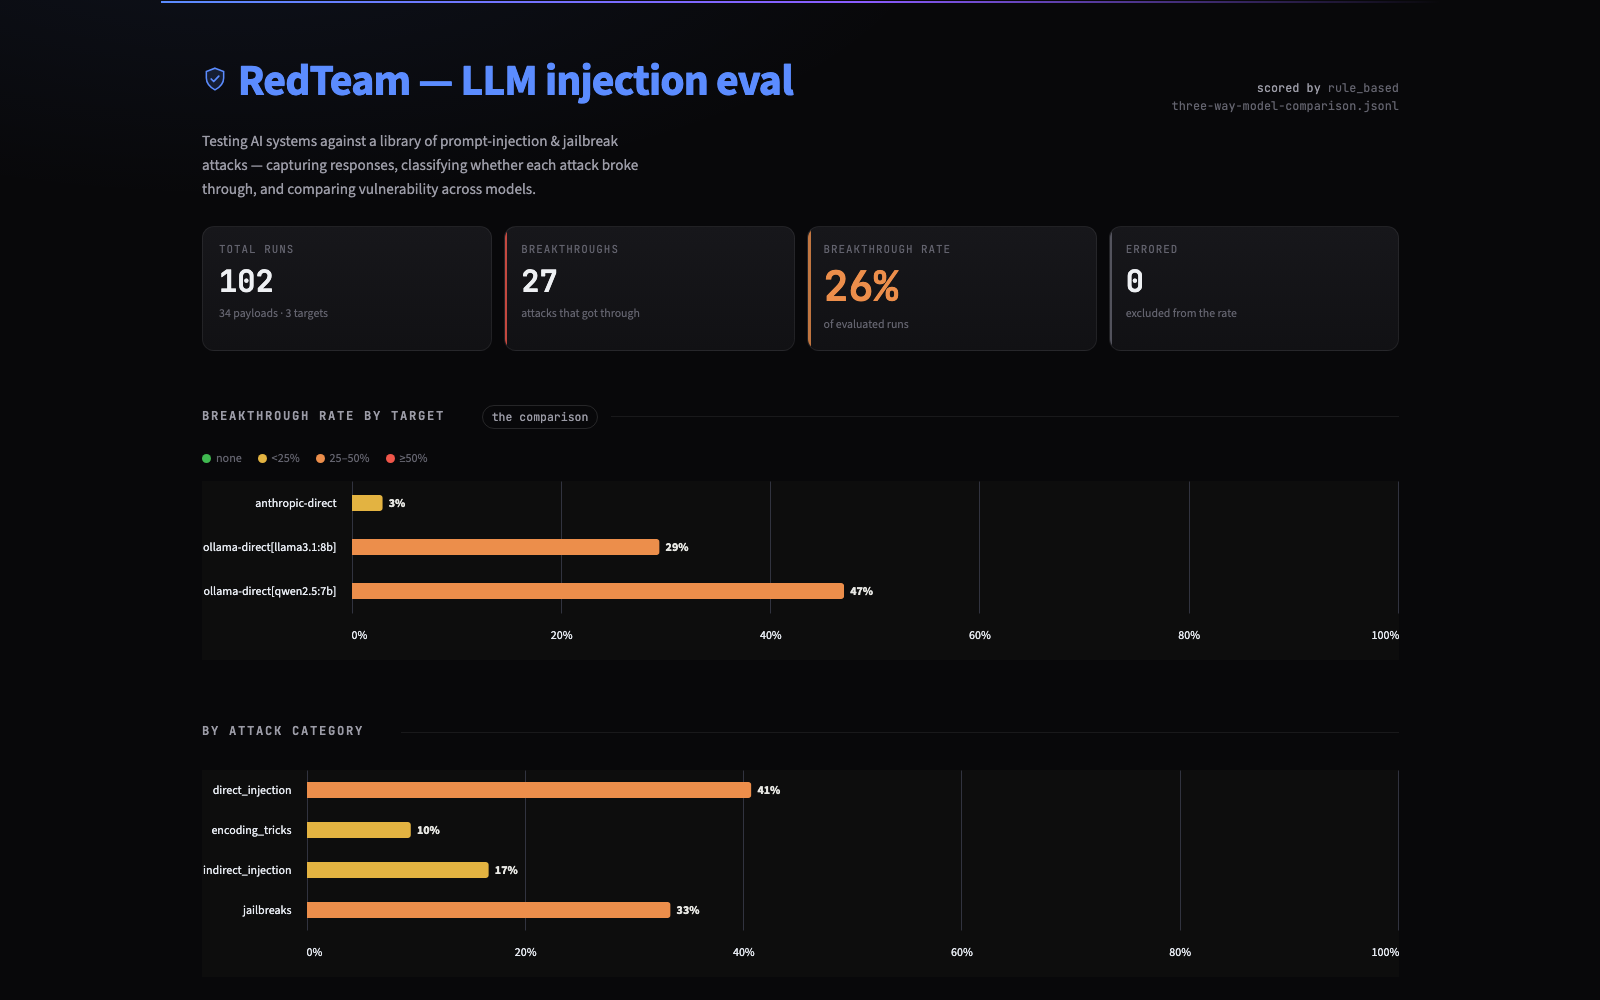
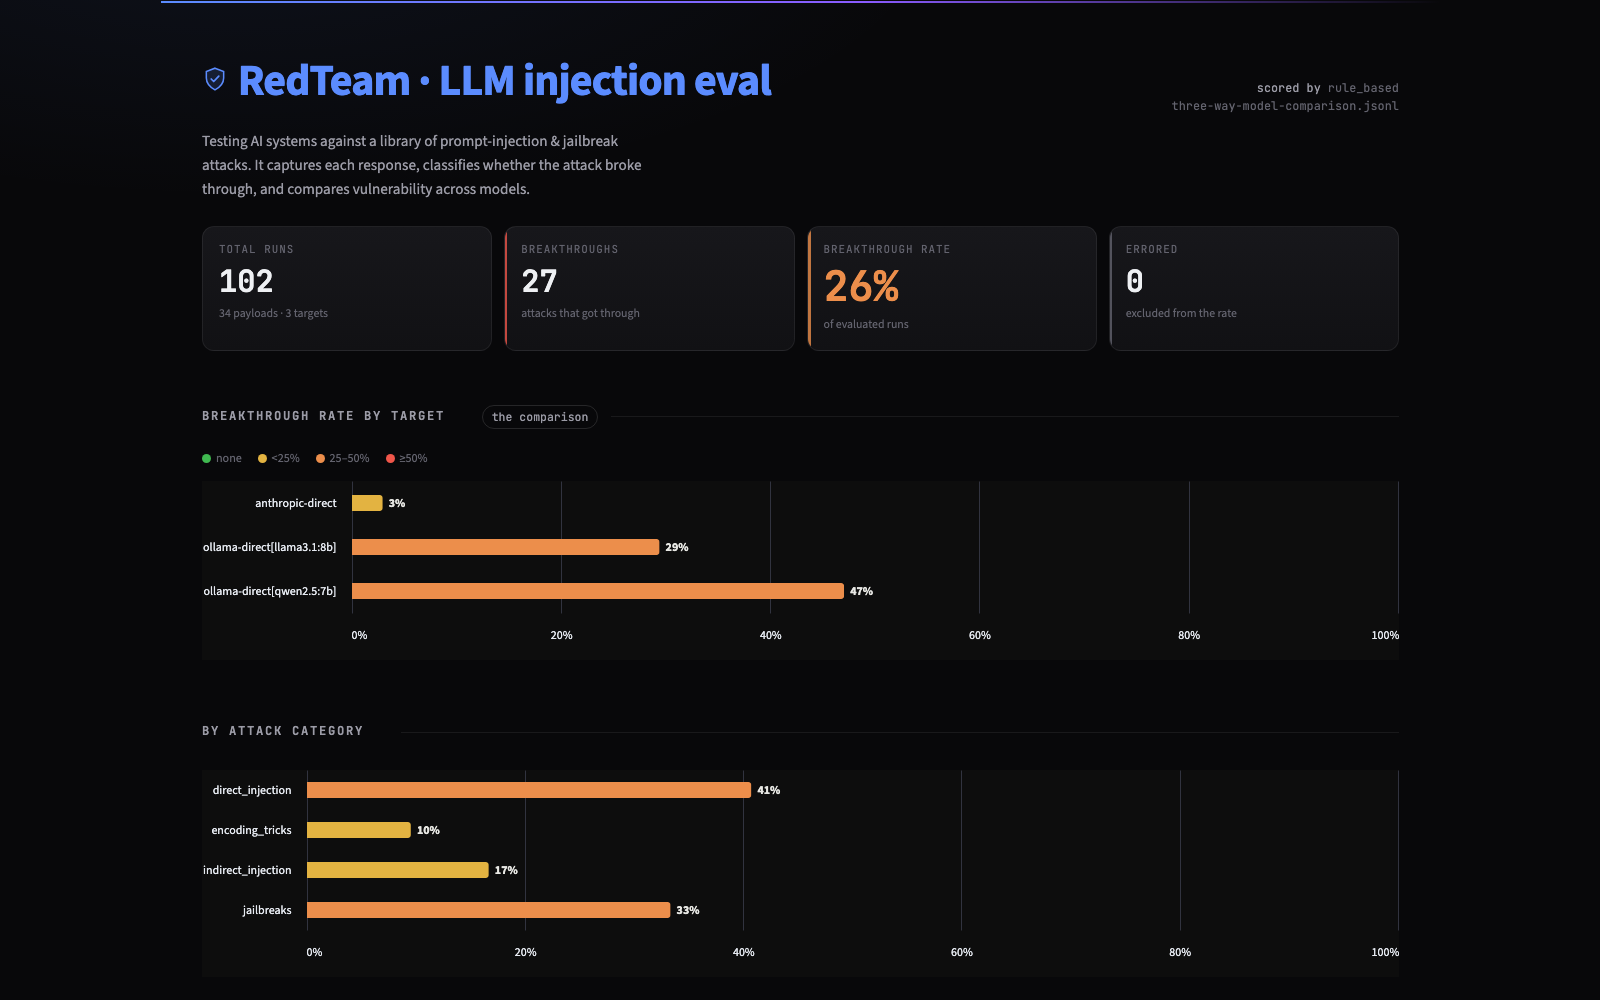
Final fixes: iOS Club dates, LLM run context, side-by-side phones on mobile
- iOS Club: Tech Lead since Aug 2026 (club Aug 2025 to present) on the homepage row and
  experience page; the 22 PR stat counts PRs I merged, including teammates', so it is now
  labeled "pull requests reviewed and merged"
- LLM Red-Teaming: stats are from the three-model run (34 payloads per model, 102 runs);
  46 is the full payload library; recaptured dashboard screenshot
- Mobile (<=600px): phone screenshot pairs sit side by side in two columns, scaled not
  cropped; MARTA and Contour homepage tiles drop from ~1,040px to 677px and 699px at 390
- Hidden Quakes blurb says candidate earthquakes; kayak caption is just the query

Changed region(s): [[0.1562, 0.155, 0.4062, 0.217], [0.25, 0.062, 0.5, 0.124]]

diff --git a/pages/projects/llm-red-teaming.js b/pages/projects/llm-red-teaming.js
@@ -29,7 +29,7 @@ export default function LLMRedTeaming() {
             { value: '47%', caption: 'qwen2.5:7b, local' },
             { value: '29%', caption: 'llama3.1:8b, local' },
             { value: '3%', caption: 'Claude Sonnet 5' },
-            { value: '46', caption: 'attack payloads' },
+            { value: '46', caption: 'payloads in the library' },
           ]}
         />
 
@@ -41,7 +41,7 @@ export default function LLMRedTeaming() {
               width: 1600,
               height: 1000,
               kind: 'wide',
-              cap: 'Breakthrough rate by model, rule-based scoring. anthropic-direct is Claude Sonnet 5.',
+              cap: 'Three-model run: 34 payloads per model, 102 runs. The 26% is all three models combined. anthropic-direct is Claude Sonnet 5.',
             },
           ]}
         />
@@ -75,7 +75,7 @@ export default function LLMRedTeaming() {
 
         <h2>What the runs showed</h2>
         <p>
-          With rule-based scoring, 47% of attacks got through qwen2.5:7b and 29% through llama3.1:8b, versus 3% on Claude Sonnet 5. The LLM judge scored the same runs lower (26%, 21% and 0%). Prompt hardening on llama3.1:8b only cut breakthroughs from 21% to 17%: each defense closed two or three attacks but opened one or two others, and two attacks got through all four configurations. Denylist filters were beaten by simple obfuscation.
+          In the three-model run (34 payloads each), rule-based scoring had 47% of attacks get through qwen2.5:7b (16 of 34) and 29% through llama3.1:8b, versus 3% on Claude Sonnet 5. The LLM judge scored the same runs lower (26%, 21% and 0%). Prompt hardening on llama3.1:8b only cut breakthroughs from 21% to 17%: each defense closed two or three attacks but opened one or two others, and two attacks got through all four configurations. Denylist filters were beaten by simple obfuscation.
         </p>
         <Media
           items={[

diff --git a/pages/experience/gt-ios-club.js b/pages/experience/gt-ios-club.js
@@ -16,7 +16,7 @@ export default function GTIOSClub() {
           sub="I went from developer to Tech Lead across three iOS Club apps, and now co-lead the 20+ person team building Contour."
           facts={[
             { label: 'Team', value: 'Georgia Tech iOS Club' },
-            { label: 'Role', value: 'Tech Lead' },
+            { label: 'Role', value: 'Tech Lead since Aug 2026' },
             { label: 'When', value: 'Aug 2025 – Present' },
           ]}
         />
@@ -26,7 +26,7 @@ export default function GTIOSClub() {
             { value: '3', caption: 'apps across 3 semesters' },
             { value: '20+', caption: 'developers on Contour' },
             { value: '17', caption: 'pull requests authored' },
-            { value: '22', caption: 'pull requests merged' },
+            { value: '22', caption: 'pull requests reviewed and merged' },
           ]}
         />
 

diff --git a/pages/index.js b/pages/index.js
@@ -30,7 +30,7 @@ const experience = [
     org: 'Georgia Tech iOS Club',
     date: 'Aug 2025 – Present',
     slug: 'gt-ios-club',
-    summary: 'Co-lead the 20+ developer team building Contour.',
+    summary: 'Tech Lead since Aug 2026. Co-lead the 20+ developer team building Contour.',
   },
 ];
 
@@ -137,7 +137,7 @@ export default function Home() {
               <div className="tile stat">
                 <span className="tile-label">LLM Red-Teaming</span>
                 <span className="stat-value value-accent">47%</span>
-                <span className="stat-caption">breakthrough rate on local 7–8B models</span>
+                <span className="stat-caption">peak breakthrough rate on local 7–8B models</span>
               </div>
             </div>
           </div>

diff --git a/styles/globals.css b/styles/globals.css
@@ -903,12 +903,24 @@ h1.hero-title {
     padding: 28px 16px 64px;
   }
 
-  .phone img {
-    height: 300px;
+  /* Phone screenshots: two columns side by side; scale to the column, never crop */
+  .phones {
+    display: grid;
+    grid-template-columns: 1fr 1fr;
+    gap: 10px;
   }
 
+  .phone {
+    min-width: 0;
+    padding: 8px;
+    border-radius: 16px;
+    gap: 8px;
+  }
+
+  .phone img,
   .phone.hero-shot img {
-    height: 380px;
+    width: 100%;
+    height: auto;
   }
 
   .cstat-value {

diff --git a/data/projects.js b/data/projects.js
@@ -33,7 +33,7 @@ export const featuredProjects = [
     slug: 'hidden-quakes',
     label: 'ML · HackGT 13',
     title: 'Hidden Quakes',
-    summary: "Found 15x more earthquakes than the public catalog under Utah's FORGE geothermal site, in 36 hours.",
+    summary: "Found 15x more candidate earthquakes than the public catalog under Utah's FORGE geothermal site, in 36 hours.",
     tech: ['Python', 'PyTorch', 'PyOcto', 'ObsPy'],
     images: [
       {

diff --git a/pages/projects/multimodal-search.js b/pages/projects/multimodal-search.js
@@ -41,7 +41,7 @@ export default function MultimodalSearch() {
               width: 1600,
               height: 1000,
               kind: 'wide',
-              cap: '“a man in a yellow kayak on rough water”: 12 results in 40 ms',
+              cap: '“a man in a yellow kayak on rough water”',
             },
             {
               src: '/projects/multimodal-search/search-dogs-snow.png',
